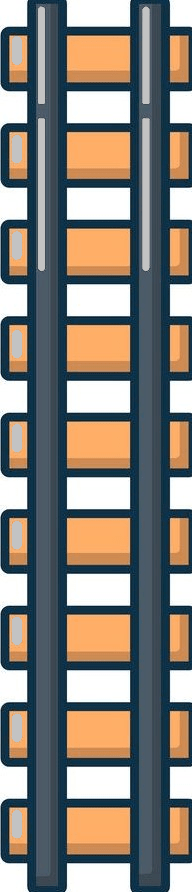
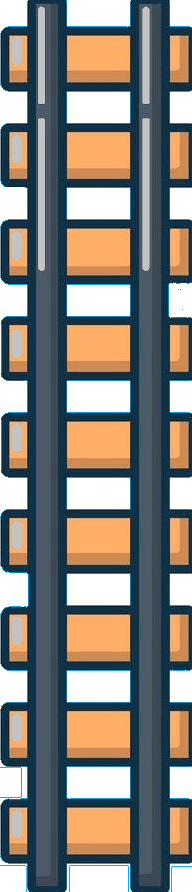
transparency fixes

diff --git a/src/render/drawer.h b/src/render/drawer.h
@@ -66,6 +66,8 @@ namespace game_drawer_layer {
 
 				sf::Sprite& s = nodes_g[v];
 				bool b = false;
+
+				
 				if (gamedata.map_graph.graph[v].post_idx != GraphIdx::uint32_max) {
 					switch (getPostType(v, gamedata)) {
 					case Posts::PostType::MARKET:
@@ -89,6 +91,8 @@ namespace game_drawer_layer {
 					s = sf::Sprite(*textureManager_.GetResource("cs"));
 				}
 
+				
+				
 
 				s.setScale(config.vertex_scale_koeff, config.vertex_scale_koeff);
 				s.setOrigin(
@@ -173,6 +177,14 @@ namespace game_drawer_layer {
 					(coords[u][1] * koeff - coords[v][1] * koeff) * (coords[u][1] * koeff - coords[v][1] * koeff)
 				);
 				sf::Texture* main_texture = textureManager_.GetResource("railway");
+
+				/*sf::Image i = main_texture->copyToImage();
+				sf::Color c = i.getPixel(0, 0);
+				i.createMaskFromColor(c);
+
+				sf::Color c2 = i.getPixel(97, 10);
+				i.createMaskFromColor(c2);
+				i.saveToFile("temp.png");*/
 
 				main_texture->setRepeated(true);
 				edges_g[e] = sf::Sprite(*main_texture,
@@ -460,7 +472,8 @@ public:
 		}
 	}
 
-	void update(sf::RenderWindow& window, const GameData& gamedata,const status& s) {
+	void update(sf::RenderWindow& window, const GameData& gamedata, const status& s) {
+
 		
 		if (elapsed_.asSeconds() >= config.frame_time)
 		{
@@ -473,7 +486,7 @@ public:
 					exit(0);
 				}
 			}
-			
+
 			elapsed_ -= sf::seconds(config.frame_time);
 		}
 	}
